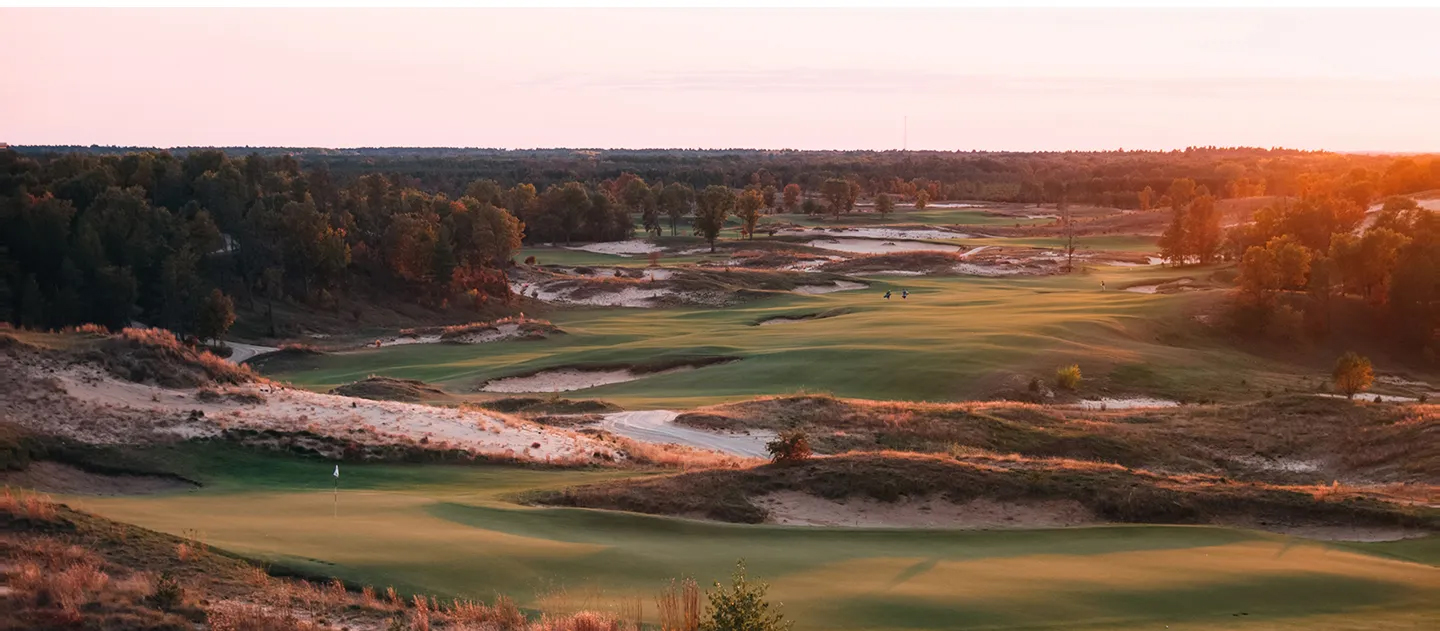
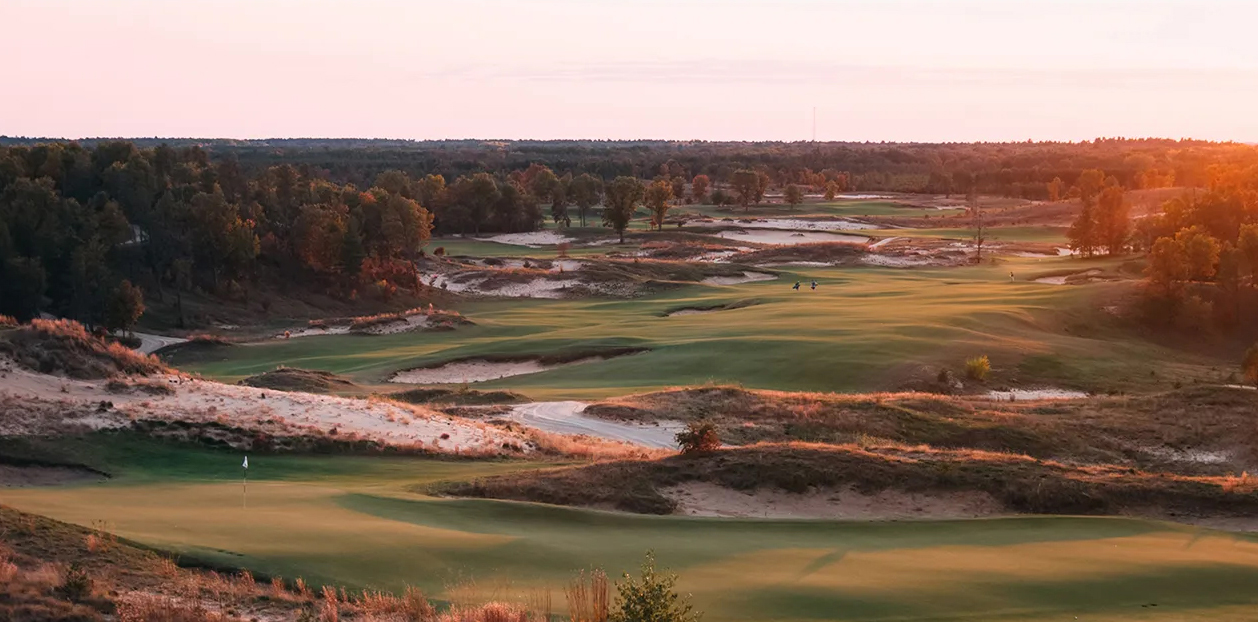
Fix SEO canonicals and robots.txt, restore Google auth on register, fix share popup close behavior

diff --git a/components/ShareButton.tsx b/components/ShareButton.tsx
@@ -19,14 +19,16 @@ export default function ShareButton({ itemType, itemId, itemName, variant = "dar
   const [senderName, setSenderName] = useState("");
   const [status, setStatus] = useState<"idle" | "sending" | "sent" | "error" | "ratelimit">("idle");
   const triggerRef = useRef<HTMLButtonElement>(null);
+  const popoverRef = useRef<HTMLDivElement>(null);
   const [popoverStyle, setPopoverStyle] = useState<React.CSSProperties>({});
 
   useEffect(() => {
     if (!open) return;
     function onClickOutside(e: MouseEvent) {
-      if (triggerRef.current && !triggerRef.current.closest("[data-share-wrap]")?.contains(e.target as Node)) {
-        setOpen(false);
-      }
+      const target = e.target as Node;
+      const inWrap = triggerRef.current?.closest("[data-share-wrap]")?.contains(target);
+      const inPopover = popoverRef.current?.contains(target);
+      if (!inWrap && !inPopover) setOpen(false);
     }
     document.addEventListener("mousedown", onClickOutside);
     return () => document.removeEventListener("mousedown", onClickOutside);
@@ -81,10 +83,12 @@ export default function ShareButton({ itemType, itemId, itemName, variant = "dar
 
       {open && createPortal(
         <div
+          ref={popoverRef}
           className={styles.popover}
           style={popoverStyle}
           role="dialog"
           aria-label="Share via email"
+          onMouseDown={(e) => e.stopPropagation()}
         >
           <div className={styles.popoverHeader}>
             <p className={styles.popoverTitle}>Share via Email</p>

diff --git a/app/register/page.tsx b/app/register/page.tsx
@@ -52,6 +52,22 @@ function RegisterForm() {
         <h1 className={styles.title}>Create account</h1>
         <p className={styles.subtitle}>Start planning your next trip</p>
 
+        <button
+          type="button"
+          className={styles.googleButton}
+          onClick={() => signIn("google", { callbackUrl })}
+        >
+          <svg className={styles.googleIcon} viewBox="0 0 24 24" aria-hidden="true">
+            <path fill="#4285F4" d="M22.56 12.25c0-.78-.07-1.53-.2-2.25H12v4.26h5.92c-.26 1.37-1.04 2.53-2.21 3.31v2.77h3.57c2.08-1.92 3.28-4.74 3.28-8.09z"/>
+            <path fill="#34A853" d="M12 23c2.97 0 5.46-.98 7.28-2.66l-3.57-2.77c-.98.66-2.23 1.06-3.71 1.06-2.86 0-5.29-1.93-6.16-4.53H2.18v2.84C3.99 20.53 7.7 23 12 23z"/>
+            <path fill="#FBBC05" d="M5.84 14.09c-.22-.66-.35-1.36-.35-2.09s.13-1.43.35-2.09V7.07H2.18C1.43 8.55 1 10.22 1 12s.43 3.45 1.18 4.93l3.66-2.84z"/>
+            <path fill="#EA4335" d="M12 5.38c1.62 0 3.06.56 4.21 1.64l3.15-3.15C17.45 2.09 14.97 1 12 1 7.7 1 3.99 3.47 2.18 7.07l3.66 2.84c.87-2.6 3.3-4.53 6.16-4.53z"/>
+          </svg>
+          Continue with Google
+        </button>
+
+        <div className={styles.divider}><span>or</span></div>
+
         <form className={styles.form} onSubmit={handleSubmit}>
           {error && <p className={styles.error}>{error}</p>}
 

diff --git a/app/sitemap.ts b/app/sitemap.ts
@@ -19,7 +19,7 @@ export default async function sitemap(): Promise<MetadataRoute.Sitemap> {
   const now = new Date();
 
   const staticPages: MetadataRoute.Sitemap = [
-    { url: SITE_URL, lastModified: now, changeFrequency: "daily", priority: 1 },
+    { url: `${SITE_URL}/`, lastModified: now, changeFrequency: "daily", priority: 1 },
     { url: `${SITE_URL}/trips`, lastModified: now, changeFrequency: "weekly", priority: 0.9 },
     { url: `${SITE_URL}/journeys`, lastModified: now, changeFrequency: "weekly", priority: 0.8 },
     { url: `${SITE_URL}/courses`, lastModified: now, changeFrequency: "weekly", priority: 0.8 },

diff --git a/app/trips/[slug]/[filterValue]/page.tsx b/app/trips/[slug]/[filterValue]/page.tsx
@@ -78,7 +78,7 @@ export default async function TripFilterPage({
       <section className={styles.banner}>
         <div className={styles.bannerMedia} aria-hidden="true" />
         <div className={styles.bannerPanel}>
-          <div className={styles.bannerTitle}>{meta.heading}</div>
+          <h1 className={styles.bannerTitle}>{meta.heading}</h1>
           <div className={styles.bannerSub}>{meta.description}</div>
         </div>
       </section>

diff --git a/app/page.tsx b/app/page.tsx
@@ -14,7 +14,7 @@ export const revalidate = 604800; // regenerate once per week so the featured tr
 export const metadata: Metadata = {
   title: "Golf Trip Index | Ranking USA's Best Golf Trips",
   description: "An overall ranking of the best golf trips in America.",
-  alternates: { canonical: SITE_URL },
+  alternates: { canonical: `${SITE_URL}/` },
 };
 
 function intScore(n?: number | null) {

diff --git a/app/robots.ts b/app/robots.ts
@@ -7,7 +7,7 @@ export default function robots(): MetadataRoute.Robots {
       {
         userAgent: "*",
         allow: "/",
-        disallow: ["/api/", "/debug/", "/caddie/room/", "/design-test/"],
+        disallow: ["/api/", "/debug/", "/caddie/room/", "/design-test/", "/trips?", "/opengraph-image"],
       },
     ],
     sitemap: `${SITE_URL}/sitemap.xml`,
